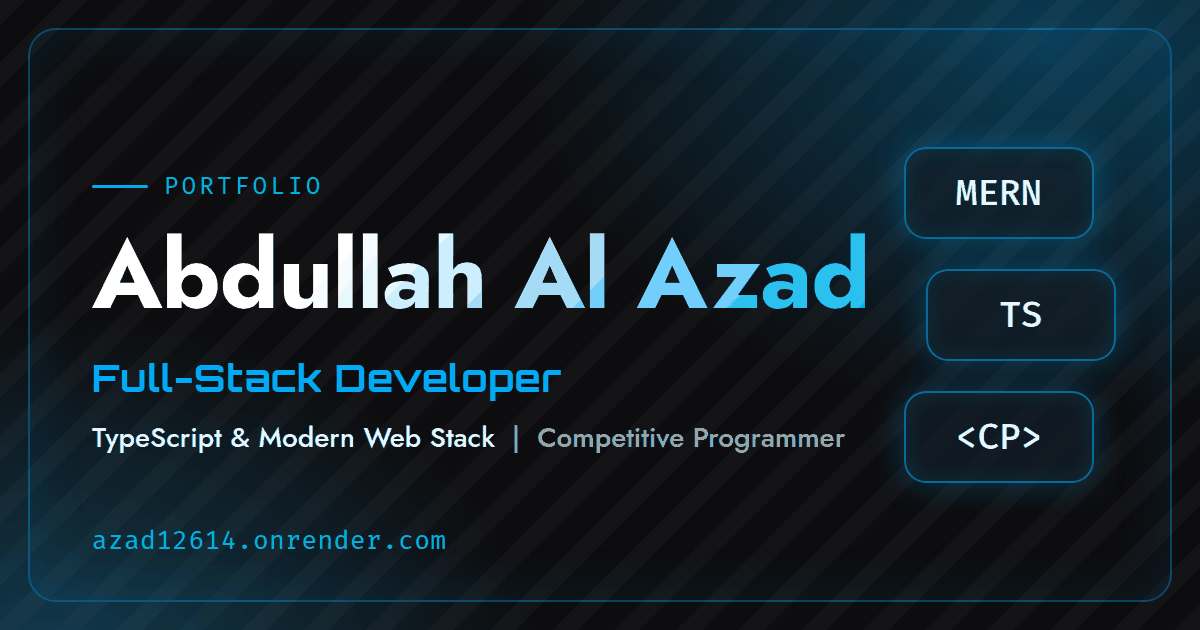
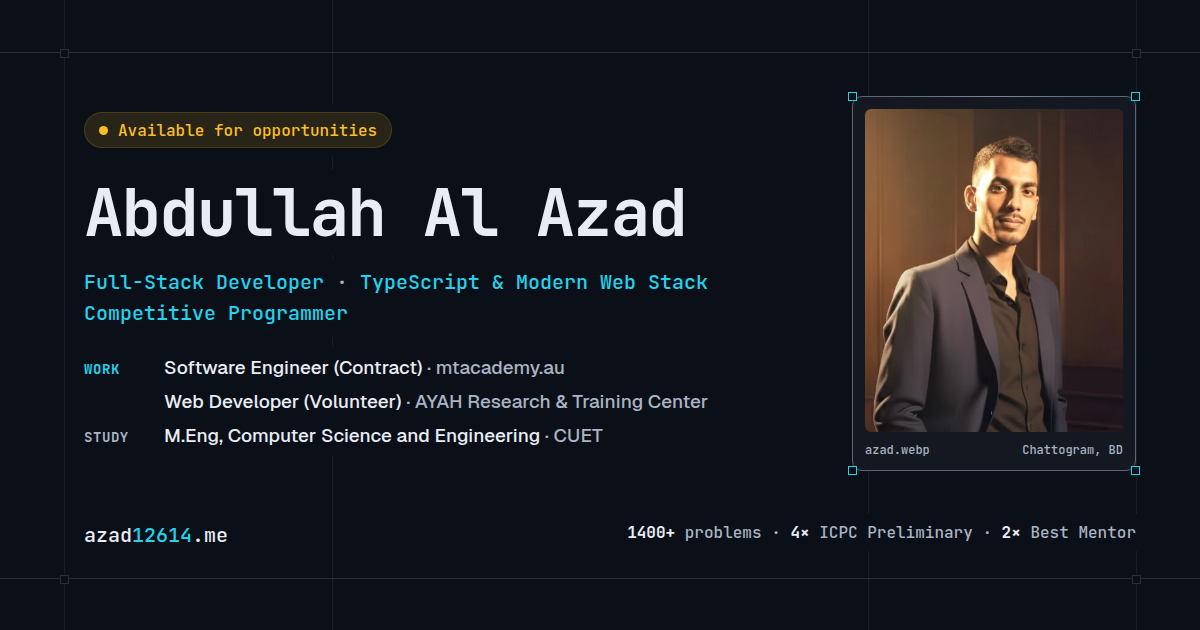
feat: new fonts, theme script and link card on azad12614.me
Geist + JetBrains Mono, theme set before first paint, new og image, favicon in public/.

diff --git a/index.html b/index.html
@@ -1,19 +1,33 @@
 <!DOCTYPE html>
-<html lang="en">
+<html lang="en" data-theme="dark">
   <head>
     <meta charset="UTF-8" />
-    <link rel="icon" type="image/x-icon" href="./src/assets/favicon.ico" />
+    <link rel="icon" type="image/x-icon" href="/favicon.ico" />
     <meta name="viewport" content="width=device-width, initial-scale=1.0" />
     <title>Abdullah Al Azad | Full-Stack Developer</title>
     <meta
       name="description"
       content="Portfolio of Abdullah Al Azad, a Full-Stack Developer from Chattogram, Bangladesh. TypeScript and modern web stack, projects, experience and contests."
     />
-    <meta name="theme-color" content="#0d0d0f" />
+    <meta name="theme-color" content="#0b0f17" />
     <link rel="preconnect" href="https://fonts.googleapis.com" />
     <link rel="preconnect" href="https://fonts.gstatic.com" crossorigin />
-    <link rel="stylesheet" href="https://fonts.googleapis.com/css2?family=Sora:wght@300..800&family=Jost:wght@300..800&family=Fira+Mono&family=Orbitron:wght@700&display=swap" />
-    <link rel="canonical" href="https://azad12614.onrender.com/" />
+    <link rel="stylesheet" href="https://fonts.googleapis.com/css2?family=Geist:wght@400;500;600;700&family=JetBrains+Mono:wght@400;500;600;700&display=swap" />
+    <script>
+      /* Before first paint: the saved theme, and the "js" class that arms the fade-up (only when motion is allowed) */
+      (function () {
+        var root = document.documentElement;
+        try {
+          var saved = localStorage.getItem("theme");
+          if (saved === "light" || saved === "dark") root.setAttribute("data-theme", saved);
+        } catch (e) {
+          /* storage blocked: keep the dark default */
+        }
+        if ("IntersectionObserver" in window && !matchMedia("(prefers-reduced-motion: reduce)").matches)
+          root.classList.add("js");
+      })();
+    </script>
+    <link rel="canonical" href="https://azad12614.me/" />
 
     <meta property="og:type" content="website" />
     <meta property="og:site_name" content="Abdullah Al Azad" />
@@ -22,14 +36,11 @@
       property="og:description"
       content="Portfolio of Abdullah Al Azad, a Full-Stack Developer from Chattogram, Bangladesh. TypeScript and modern web stack, projects, experience and contests."
     />
-    <meta property="og:url" content="https://azad12614.onrender.com/" />
-    <meta property="og:image" content="https://azad12614.onrender.com/og-image.png" />
+    <meta property="og:url" content="https://azad12614.me/" />
+    <meta property="og:image" content="https://azad12614.me/og-image.png" />
     <meta property="og:image:width" content="1200" />
     <meta property="og:image:height" content="630" />
-    <meta
-      property="og:image:alt"
-      content="Abdullah Al Azad, Full-Stack Developer. TypeScript and modern web stack, competitive programmer."
-    />
+    <meta property="og:image:alt" content="Abdullah Al Azad, Full-Stack Developer. TypeScript and modern web stack, competitive programmer." />
 
     <meta name="twitter:card" content="summary_large_image" />
     <meta name="twitter:title" content="Abdullah Al Azad | Full-Stack Developer" />
@@ -37,11 +48,8 @@
       name="twitter:description"
       content="Portfolio of Abdullah Al Azad, a Full-Stack Developer from Chattogram, Bangladesh. TypeScript and modern web stack, projects, experience and contests."
     />
-    <meta name="twitter:image" content="https://azad12614.onrender.com/og-image.png" />
-    <meta
-      name="twitter:image:alt"
-      content="Abdullah Al Azad, Full-Stack Developer. TypeScript and modern web stack, competitive programmer."
-    />
+    <meta name="twitter:image" content="https://azad12614.me/og-image.png" />
+    <meta name="twitter:image:alt" content="Abdullah Al Azad, Full-Stack Developer. TypeScript and modern web stack, competitive programmer." />
   </head>
 
   <body>
